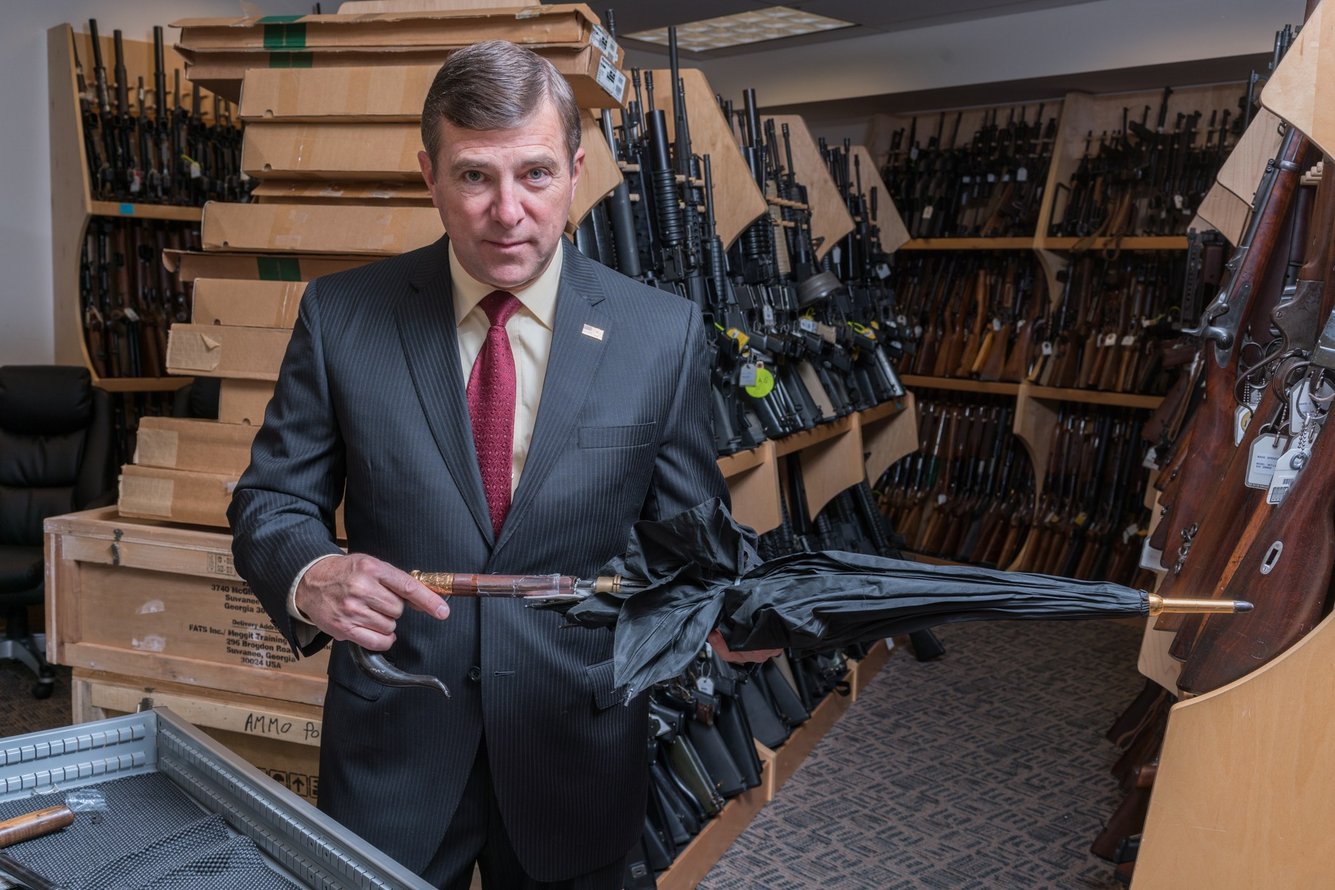
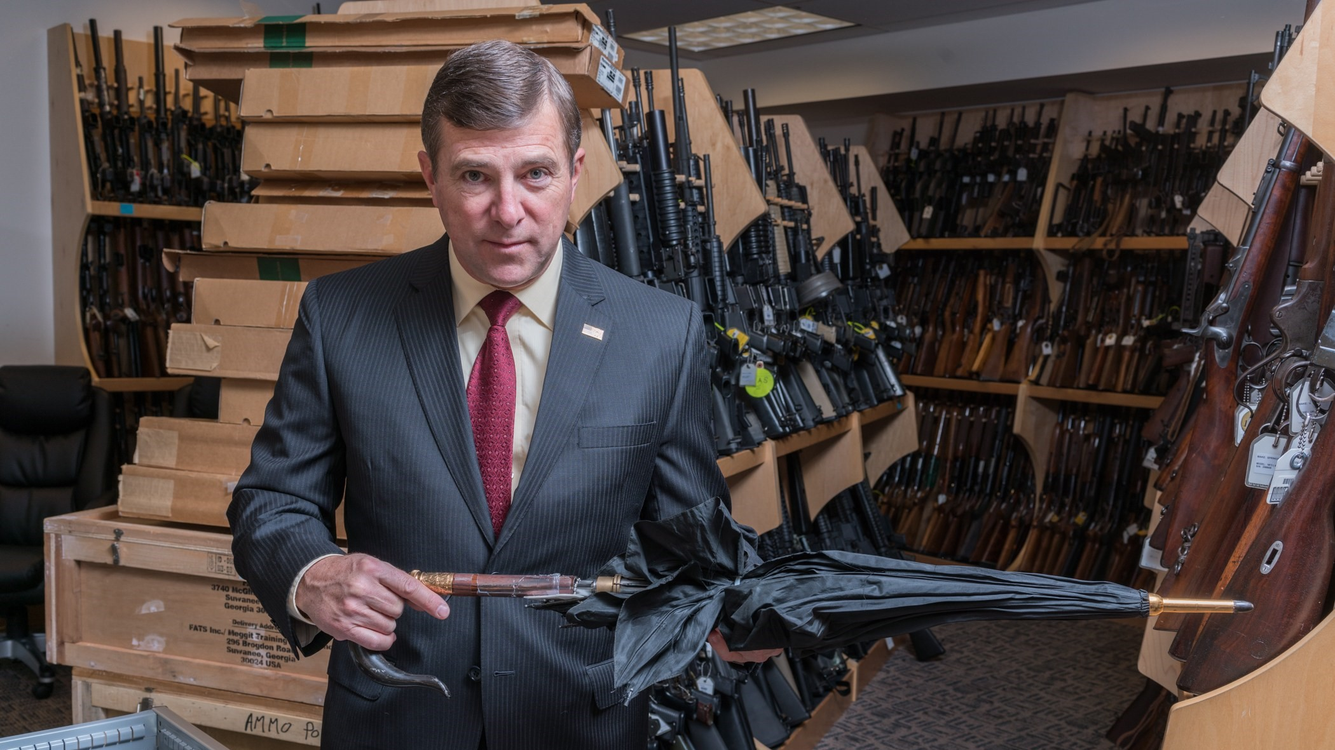
asdf

diff --git a/_drafts/2019-03-29-ISIS.md b/_drafts/2019-03-29-ISIS.md
@@ -2,8 +2,8 @@
 layout: post
 title: "Young Man Radicalized Online, Joins Extremist Capitalist Faction"
 author: warren
-categories: [ finance ]
-image: assets/images/suit-mud.jpg
+categories: [ finance, general ]
+image: assets/images/suit-guns.jpg
 featured: true
 hidden: true
 ---
@@ -14,7 +14,7 @@ The day that Bobby Caldwell of Appleton, WI, left home for good he packed light:
 
 ISIS, as the school is commonly known, is a subsidiary of an elite [Ivy-League business school], a breeding-ground for radical-capitalist thought, churning out bankers, investors, and middle managers every spring to do economic violence. 
 
-Bobby's path to ISIS rose from unsuspecting origins. His father was a staunch trade-unionist, his mother a public school teacher; he had studied Anthropology at Wesleyan and spent four years in marketing at an e-commerce startup. Bobby admitted that he dabbled in index funds in his youth, but never anything as serious as options trading or high finance. Ultimately, like too many of his peers, it was the power of the internet, and its power to [amplify radical thought], that drew Bobby into the world of capitalism.
+Bobby's path to ISIS rose from unsuspecting origins. His father was a staunch trade-unionist, his mother a public school teacher; he had studied Anthropology at Wesleyan and spent four years in marketing at an e-commerce startup. Bobby admitted that he dabbled in index funds in his youth, but never anything as serious as options trading or high finance. Ultimately, like too many of his peers, it was the power of the internet, and its power to [amplify radical thought], that drew Bobby into the world of capitalistic extremism.
 
 "A friend thought I'd like [Joe Rogan] on YouTube," Bobby tells the Boredroom News, "but their algorithm kept feeding me more and more [Martin] Shkreli vids; soon I was spending every day on [Poets and Quants]. I was hooked." It was through this online miasma of Objectivism that an ISIS recruiter reached out. 
 
@@ -22,26 +22,28 @@ Bobby's path to ISIS rose from unsuspecting origins. His father was a staunch tr
 
 Finally it was time to leave home for good. Having purchased a plane ticket to Newark with money his father had put aside for union dues, Bobby took a late-night ferry across the Hudson to avoid detection. The moment he arrived in Manhattan he was greeted by fellow ISIS recruits who welcomed him. "They showed me their [Robinhood] balances, they discussed the evils of the Welfare State. I felt I was home."
 
-The following few weeks were a blur. Bobby claims that basic training, "The Core" as ISIS called it, was fueled by Monster energy drinks, Long Island Iced Teas, and copious amounts of cocaine. [Editor's note: it is virtually inconceivable that any individual could consume the volume of alcohol and drugs that Bobby mentions.] Despite the chemicals pumped into his body, Bobby enjoyed the training curriculum with such favorites as "Hostile Takeover to Violent Takeover", "Manipulating People and Earnings", "The Art of the Deal", "Maiming Children with Grenades – a Honeywell Case Study", and "For-profit Sexual Harassment in the Workplace." Bobby even managed to find a warped version of love in his harsh surroundings. A romantic relationship blossomed with Layla Amjadi, a former Product Manager at Facebook and known ISIS whore, but she left Bobby's life as quickly as she had entered it. "Apparently," Bobby admits, "she only wanted me for me Accounting homework and molly whenever I had it. But I would never begrudge her for sticking to her market-based principles though."
+The following few weeks were a blur. Bobby claims that basic training, "The Core" as ISIS called it, was fueled by Monster energy drinks, Long Island Iced Teas, and copious amounts of cocaine. [Editor's note: it is virtually inconceivable that any individual could consume the volume of alcohol and drugs that Bobby mentions.] Despite the chemicals pumped into his body, Bobby enjoyed the training curriculum with such favorites as "Hostile Takeover to Violent Takeover", "Manipulating People and Earnings", "The Art of the Deal", "Maiming Children with Grenades – a Honeywell Case Study", and "For-profit Sexual Harassment in the Workplace." 
+
+Bobby even managed to find a warped version of love in his harsh surroundings. A romantic relationship blossomed with Layla Amjadi, a former Product Manager at Facebook and known ISIS whore, but she left Bobby's life as quickly as she had entered it. "Apparently," Bobby admits, "she only wanted me for me Accounting homework and molly whenever I had it. But I would never begrudge her for sticking to her market-based principles though."
 
 However enthralled Bobby was with his fellow Libertarian peers, 
 
 
 Well, some people have called me a monster, a pariah, but I’d say that I’m an activist short seller. I don’t know chuckles quite a few. I guess right now you I don’t even see them as companies anymore, just blips on a screen. And when I want to make some more money, and I always want to make some more money, I just make up some research and shoot them down. Then *poof* no more company.
- 
-I know that Adam Smith will reward me in heaven
 
 
 
-Well, I first became interested in capitalistic extremism during an internship at Wells Fargo selling unsuitable financial products to people who would never afford them with their next 1,000 paychecks; also, I really hate poor people
+offer to leave ISIS early
 
 
-https://docs.google.com/document/d/1susa26Mbc1AtApKEzzujo3LXCKWqi63wfsdfURKQwfg/edit
 
-https://nymag.com/intelligencer/2017/11/abdullahi-yusuf-isis-syria.html
-
-https://nypost.com/2017/05/13/meet-the-western-women-who-are-flocking-to-join-isis/
-
-https://www.theatlantic.com/politics/archive/2017/05/mississippi-young-dakhlalla/524751/
+SEC sting operation
 
 
+
+3-6 months in minimun security faciltiy - fantasitc networking opportunity, especially since Jeff [Epstein] stopped talking
+
+
+Start own fund, teach at ISIS and make half-baked run for governor
+
+"I know that Adam Smith will reward me in heaven."
